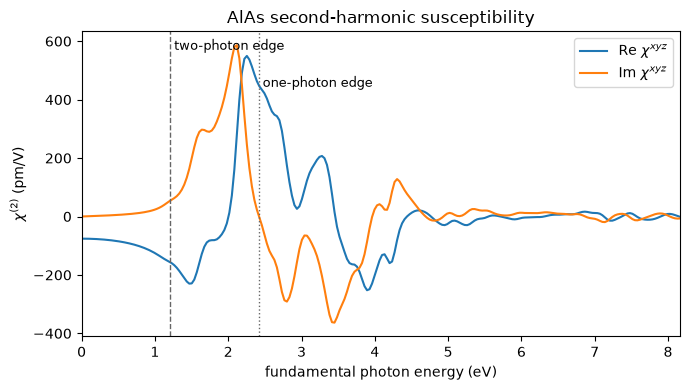
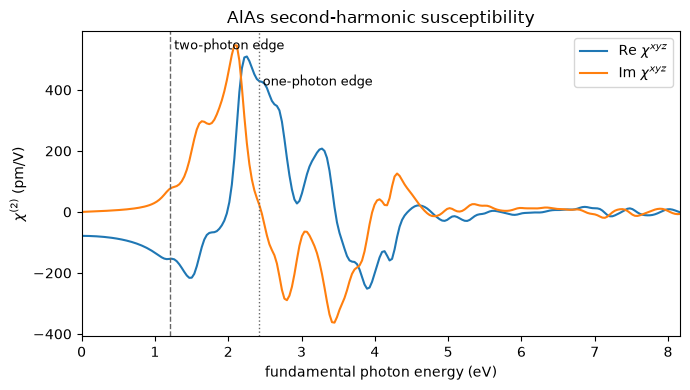
notebooks: run the AlAs second harmonic of notebook 33 at 23 bands
At 22 bands the 6x6x6 sum cut doublets at 13 of the 216 k-points, which is
what the six allowed components disagreeing in their fourth digit (672.4 against
672.6) and the forbidden ones at 4.07e-4 of the peak were showing. At 23 the six
agree to the printed digit at 632.9 pm/V and the forbidden ones read 2.41e-9.

The other figures move for a reason the band count is not: the notebook was
last executed before 27eeaa2 put back the l = 1 projector's tangent at
k + G = 0, so the Elk table now reads 632.9 against 628.0 pm/V on the peak where
it read 672.4, and -78.5 against -85.4 on chi(0) where it read -75.8; the
resonance stays at 2.152 eV against 2.163, and the truncation diagnostic reads
3.6e-3 of the peak where it read 2.9e-3.

The silicon control at 14 bands is unchanged and its cut is a gap, but it now
prints the incommensurate-grid warning 263b6a3 added, since si2-nosym's 15^3
grid misses the factor of 4 diamond's translation needs; it is left visible.
Re-executed with tools/export_notebooks.sh in 444 s on a machine at a load of
about 14 on 14 cores, inside the 600 s ceiling; that is not a timing.

Claude-Session: https://claude.ai/code/session_01KhkwQYAbFQCXx2C6agrPuH

diff --git a/notebooks/33_second_harmonic_generation.md b/notebooks/33_second_harmonic_generation.md
@@ -29,14 +29,14 @@ PSEUDO, CASES = Path("../tests/data/pseudo"), Path("../tests/data/qe")
 
 alas = Calculator.from_file(CASES / "alas-shg.in", PSEUDO, announce=False)
 mesh = KPoints.automatic((6, 6, 6), (0, 0, 0), alas.system.cell)
-chi = alas.get_shg(kpoints=mesh, nbnd=22, window=0.6, nw=240, broadening=0.010)
+chi = alas.get_shg(kpoints=mesh, nbnd=23, window=0.6, nw=240, broadening=0.010)
 
 xyz = chi.component(0, 1, 2)
 print("AlAs chi_xyz at low frequency = %.1f pm/V  (d = %.1f pm/V)"
       % (xyz[0].real, xyz[0].real / 2))
 ```
 
-    AlAs chi_xyz at low frequency = -75.8 pm/V  (d = -37.9 pm/V)
+    AlAs chi_xyz at low frequency = -78.5 pm/V  (d = -39.2 pm/V)
 
 
 ## Zincblende leaves exactly one number
@@ -64,14 +64,14 @@ print("\nlargest of the other %d components: %.2e of the peak"
       % (27 - len(survive), max(v for k, v in peaks.items() if k not in survive) / largest))
 ```
 
-    chi^xyz     672.4 pm/V
-    chi^xzy     672.4 pm/V
-    chi^yxz     672.4 pm/V
-    chi^yzx     672.4 pm/V
-    chi^zxy     672.6 pm/V
-    chi^zyx     672.6 pm/V
+    chi^xyz     632.9 pm/V
+    chi^xzy     632.9 pm/V
+    chi^yxz     632.9 pm/V
+    chi^yzx     632.9 pm/V
+    chi^zxy     632.9 pm/V
+    chi^zyx     632.9 pm/V
     
-    largest of the other 21 components: 4.07e-04 of the peak
+    largest of the other 21 components: 2.41e-09 of the peak
 
 
 ## The control: silicon has to give nothing
@@ -92,9 +92,13 @@ print("silicon peak |chi| = %9.4f pm/V" % np.abs(si_chi.chi).max())
 print("ratio              = %.1e" % (np.abs(si_chi.chi).max() / np.abs(chi.chi).max()))
 ```
 
-    AlAs    peak |chi| =    672.58 pm/V
+    /u/40/ladovj1/data/Documents/programs/claude/defumat/.claude/worktrees/agent-ab23bc009de195db9/defumat/workflows/shg.py:137: RuntimeWarning: the dense FFT grid of this nosym run, (15, 15, 15), is not a multiple of (4, 4, 4), which the crystal's fractional translations need, so the second-harmonic tensor chi^abc carries a residue the crystal does not have. The operations nosym dropped do not map this grid onto itself, the exchange-correlation potential evaluated pointwise on it breaks them at the grid's sampling error, and a second-order tensor picks that up in every component one of those operations forbids: on two-atom silicon, whose inversion carries a quarter-lattice translation, chi^(2) on the whole unshifted 2x2x2 mesh at 8 bands reads 0.72 pm/V on the 15^3 grid ecutwfc = 12 gives under nosym, where inversion requires zero, against 0.0018 on the commensurate 20^3 grid of ecutwfc = 16 and 0.00074 with symmetry kept for the SCF. Keep symmetry for the SCF and pass the whole unshifted mesh as kpoints= (KPoints.automatic((n, n, n), (0, 0, 0), cell), given no rotations, is the complete grid), or choose a cutoff whose dense grid is a multiple of (4, 4, 4)
+      return second_harmonic(
+
+
+    AlAs    peak |chi| =    632.90 pm/V
     silicon peak |chi| =    0.0120 pm/V
-    ratio              = 1.8e-05
+    ratio              = 1.9e-05
 
 
 ## The spectrum, and where its absorption starts
@@ -163,8 +167,8 @@ print("chi(0)     (pm/V)   %8.1f  %8.1f" % (xyz[0].real, chi_elk[0].real * 24.43
 
                         defumat     Elk
     resonance (eV)         2.152     2.163
-    peak |chi| (pm/V)      672.4     628.0
-    chi(0)     (pm/V)      -75.8     -85.4
+    peak |chi| (pm/V)      632.9     628.0
+    chi(0)     (pm/V)      -78.5     -85.4
 
 
 ## What the number means
@@ -188,8 +192,8 @@ print("chi = %.1f pm/V   ->   d = %.1f pm/V" % (xyz[0].real, xyz[0].real / 2))
 print("band truncation diagnostic: %.1e of the peak" % chi.truncation)
 ```
 
-    chi = -75.8 pm/V   ->   d = -37.9 pm/V
-    band truncation diagnostic: 2.9e-03 of the peak
+    chi = -78.5 pm/V   ->   d = -39.2 pm/V
+    band truncation diagnostic: 3.6e-03 of the peak
 
 
 ---
